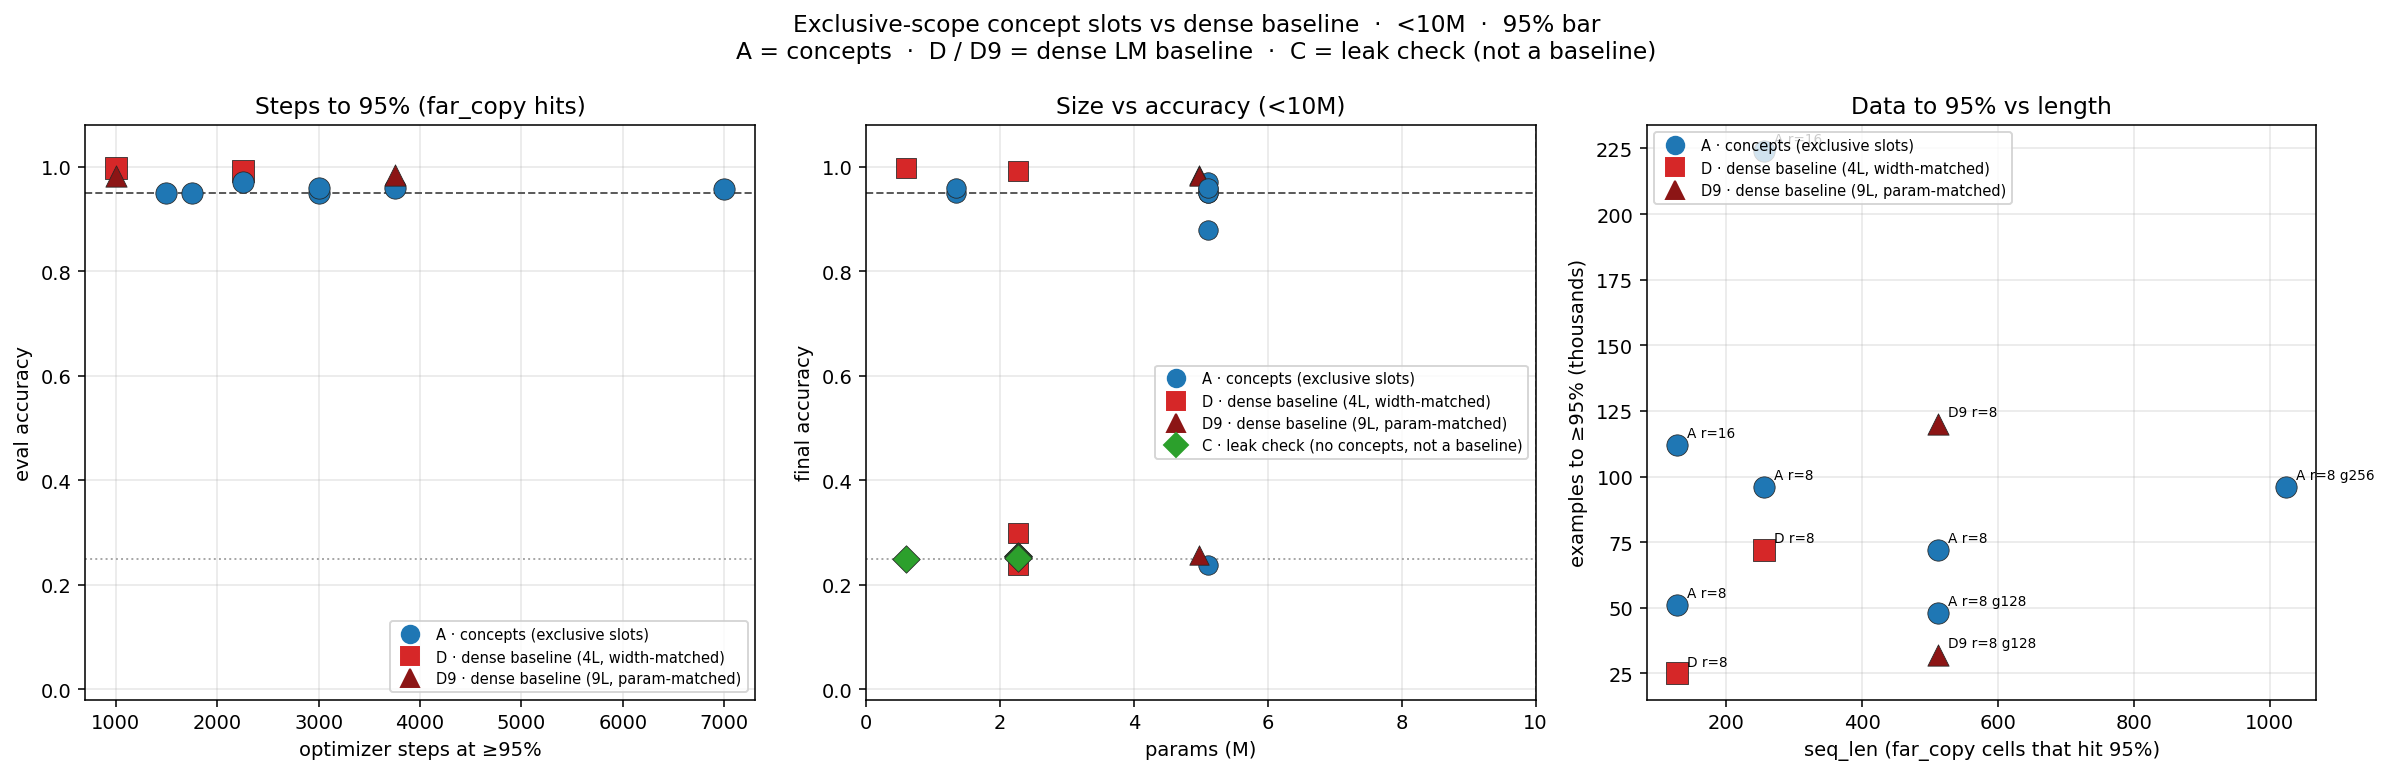
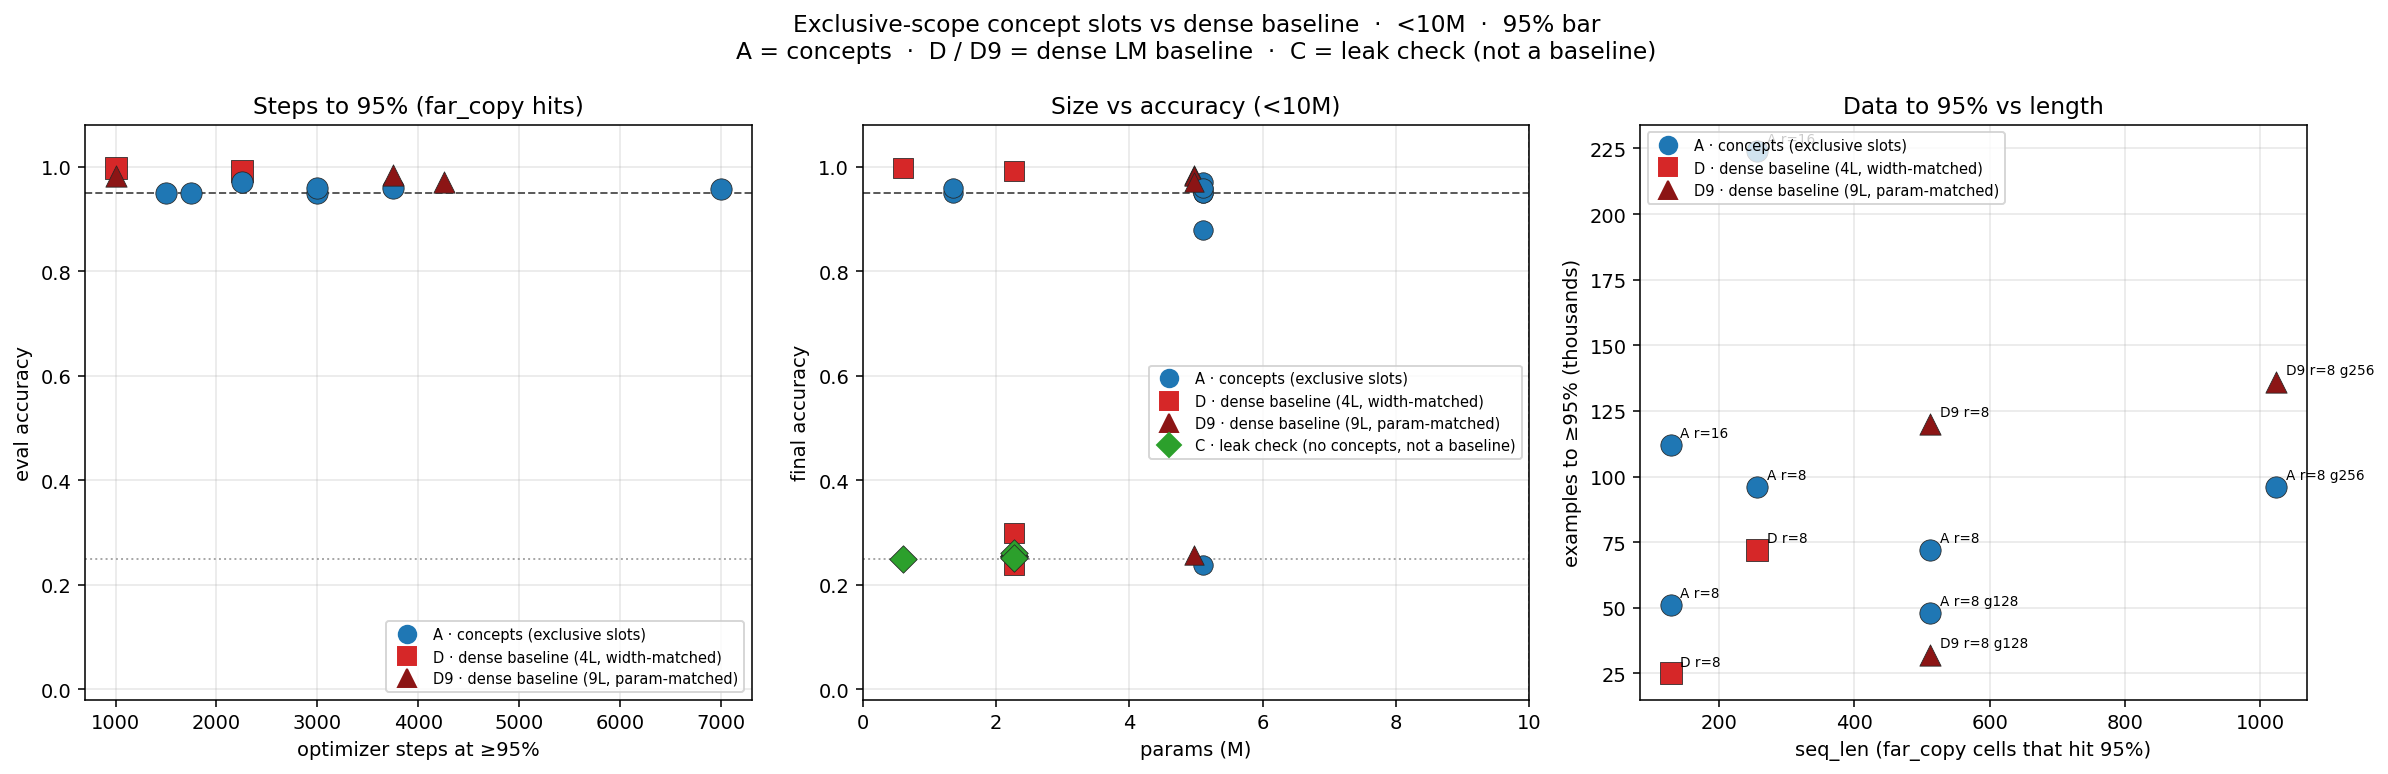
docs: close seq1024 exclusive-slot D9 at 97.1% and C on the floor
Param-matched 4.97M D hits 95% at 136k examples (4250 steps); leak-check C
stays at 26.0% / -0.0002 nats. The <10M law now states length (seq=1024
true-reach vs D9/C), compression (r=16 not r=32), and composition (exam kill).

diff --git a/tests/test_scale_hard_io.py b/tests/test_scale_hard_io.py
@@ -53,6 +53,17 @@ def test_law_inventory_has_closed_cells_and_seq1024_a():
     assert cells[("cell_seq256_r32_A", "A")]["hit_95"] is False
     assert cells[("cell_chain_h2_D9", "D")]["hit_95"] is False
     assert cells[("reach_seq512_C", "C")]["acc"] == pytest.approx(0.2537, abs=1e-3)
+    d9 = cells[("reach_seq1024_D9", "D")]
+    assert d9["hit_95"] is True
+    assert d9["acc"] == pytest.approx(0.9707, abs=1e-3)
+    assert d9["examples"] == 136000
+    assert d9["min_gap"] == 256
+    assert d9["params_m"] == pytest.approx(4.97)
+    c1024 = cells[("reach_seq1024_C", "C")]
+    assert c1024["hit_95"] is False
+    assert c1024["acc"] == pytest.approx(0.2605, abs=1e-3)
+    assert c1024["examples"] == 38400
+    assert not inv.get("in_flight")
 
 
 def test_plot_exclusive_slot_law_writes_pngs(tmp_path: Path, monkeypatch):

diff --git a/verification/plot_exclusive_slot_law.py b/verification/plot_exclusive_slot_law.py
@@ -379,7 +379,8 @@ def main() -> int:
     ax.set_ylabel("eval accuracy")
     ax.set_title("far_copy length  (span=32, r=8)")
     handles = legend_handles(tuple(k for k in SERIES_ORDER if k in used), patches=True)
-    handles.append(Patch(facecolor="0.85", edgecolor="0.2", hatch="//", label="in flight (not done)"))
+    if in_flight:
+        handles.append(Patch(facecolor="0.85", edgecolor="0.2", hatch="//", label="in flight (not done)"))
     ax.legend(handles=handles, fontsize=7, loc="upper right")
     ax.grid(True, axis="y", alpha=0.3)
 

diff --git a/docs/4_Research_Notes/concept_slot_scaling_frontier_20260913.md b/docs/4_Research_Notes/concept_slot_scaling_frontier_20260913.md
@@ -71,6 +71,8 @@ steps). **Tune LR per geometry; it is not portable from the 1.35M toy.**
 | **reach_seq512_D9** | D | **4.97M** | **3e-4** | 512 | 8 | far_copy gap128 | 2 | **32k** | 1,000 | **98.3%** | 0.047 | **yes** | target_acc |
 | **reach_seq512_C** | C | 2.27M | 3e-4 | 512 | 8 | far_copy gap128 | 2 | 38k | 1,200 | 25.4% | 1.386 | no (floor) | budget |
 | **reach_seq1024_A** | A | 5.11M | **1e-4** | 1024 | 8 | far_copy gap256 | 2 | **96k** | 3,000 | **95.9%** | 0.109 | **yes** | target_acc |
+| **reach_seq1024_D9** | D | **4.97M** | **1e-4** | 1024 | 8 | far_copy gap256 | 2 | **136k** | 4,250 | **97.1%** | 0.080 | **yes** | target_acc |
+| **reach_seq1024_C** | C | 2.27M | 1e-4 | 1024 | 8 | far_copy gap256 | 2 | 38k | 1,200 | 26.0% | 1.386 | no (floor) | budget |
 | seq512 D lr=1e-3 | D | 2.27M | 1e-3 | 512 | 8 | far_copy | 2 | 104k | 3,250 | 27.8% | 1.343 | no | retuned |
 | seq512 D lr=3e-3 | D | 2.27M | 3e-3 | 512 | 8 | far_copy | 2 | 64k | 2,000 | 25.2% | 1.368 | no | retuned |
 | seq512 A lr=1e-3 | A | 5.11M | 1e-3 | 512 | 8 | far_copy | 2 | 72k | 2,250 | 24.5% | 1.386 | no | retuned to 3e-4 |
@@ -87,11 +89,17 @@ The skill is in the slots. C stays at the floor on every new (seq, min_gap) and 
   (ablation → 24.5%). Param-matched 4.97M D hits **98.3% at 32k / 32 min**. C stays
   at 25.4% (no leak). On this farther-span exam D is *more* data-efficient than A
   (opposite of padded min_gap=32).
-- **Success (true reach, seq=1024 min_gap=256):** 5.11M A hits **95.9% at 96k / 3000
+- **Success (true reach, seq=1024 min_gap=256, A):** 5.11M A hits **95.9% at 96k / 3000
   steps / ~5.5 h CPU** (lr=1e-4, 6.63 s/step, 128 slots). Ablation → 23.8%. Same
-  example-count as seq256 r=8. Param-matched D was not rerun: the artifact store
-  wiped during the JSON write. Durable record:
+  example-count as seq256 r=8. Durable record:
   `docs/4_Research_Notes/exclusive_slot_law_inventory.json`.
+- **Success (true reach, seq=1024 min_gap=256, matched D9 + C, 2026-09-15):** param-matched
+  4.97M D hits **97.1% at 136k / 4250 steps / 887 min** (lr=1e-4, 12.52 s/step,
+  early-stop). A is cheaper on the same exam: **0.71× examples and 0.37× wall**.
+  Leak-check C stays at **26.0% / CE 1.3861 (−0.0002 nats vs floor)** through 38k /
+  1200 steps / 73 min. JSON:
+  `/workspace/Cache/scale_hard/reach_seq1024_D9.json`,
+  `/workspace/Cache/scale_hard/reach_seq1024_C.json`.
 - **A beats width-matched D at seq512, and is more efficient than param-matched D.**
   The 2.27M 4-layer dense decoder never left ~25–30% across 1e-3 / 3e-4 / 3e-3 through
   64–104k examples. Deepening D to **9 layers / 4.97M** (same parameter band as A's 5.11M)
@@ -116,10 +124,12 @@ The skill is in the slots. C stays at the floor on every new (seq, min_gap) and 
 
 Not a Kaplan-style fit — too few cells. The measured pattern is:
 
-1. **Length is cheap at r=8 through seq=1024 true reach.** A solves `far_copy`
-   seq=512 min_gap=32 (72k / 76 min), min_gap=128 (48k / 40 min), **and seq=1024
-   min_gap=256 (96k / 5.5 h wall, lr=1e-4)**. E95 stays on the order of 10^5
-   examples. Wall grows with seq because each step is denser (1.6 s → 6.6 s).
+1. **Length is cheap at r=8 through seq=1024 true reach, vs both C and D.** A
+   solves `far_copy` seq=512 min_gap=32 (72k / 76 min), min_gap=128 (48k / 40 min),
+   **and seq=1024 min_gap=256 (96k / 5.5 h, lr=1e-4)**. Param-matched D9 also
+   solves seq=1024 (**97.1% at 136k / 887 min**); A uses **0.71× examples and
+   0.37× wall**. C stays at chance. E95 stays on the order of 10^5 examples.
+   Wall grows with seq (A 1.6 s → 6.6 s; D9 12.5 s/step at seq=1024).
 2. **Compression is the binding axis.** r=8 solved at 96k; r=16 solved at 224k
    (~2.3× data); r=32 missed at 256k (87.9%). Doubling tokens/slot more than
    doubles examples-to-95%; another doubling does not finish in 256k. Do not
@@ -127,12 +137,13 @@ Not a Kaplan-style fit — too few cells. The measured pattern is:
 3. **Composition is an exam kill at this budget**, including packed hops=2 /
    32-token answers on param-matched 4.97M D (25.7% @ 128k) and hops=3 / 8-token
    answers on A and D. Not an exclusive-slot failure.
-4. **C stays on the floor** on every new (seq, min_gap) and on chain. The exam does not leak.
-5. **D matching is exam-dependent at seq512.** Width-matched 2.27M D misses padded
-   copy. Param-matched 4.97M D **hits 98.5% at 120k / 121 min** on min_gap=32 (A
-   faster: 72k / 76 min) and **98.3% at 32k / 32 min** on min_gap=128 (D faster
-   than A's 48k / 40 min). Exclusive slots are a competitive <10M solver, not
-   uniformly the data-cheapest one.
+4. **C stays on the floor** on every new (seq, min_gap), including seq=1024
+   min_gap=256 (26.0%, −0.0002 nats), and on chain. The exam does not leak.
+5. **D matching is exam-dependent.** Width-matched 2.27M D misses padded seq512.
+   Param-matched 4.97M D **solves padded seq512, true-reach seq512, and
+   true-reach seq=1024**. A is cheaper on padded seq512 (0.60× examples) and on
+   seq=1024 (0.71× examples); D9 is cheaper on true-reach seq512 (32k vs A's 48k).
+   Exclusive slots are a competitive <10M solver, not uniformly the data-cheapest one.
 
 ## Still unknown
 
@@ -140,8 +151,6 @@ Not a Kaplan-style fit — too few cells. The measured pattern is:
   (r=16 now hits 95.7% at 224k).
 - hops=2 packed chain is now measured: param-matched D stays at chance through
   128k. Not D-green; A skipped per protocol.
-- Seq=1024 param-matched D / C were not run (artifact store wiped as A's JSON
-  was being written). A ablation is 23.8%, so the skill is in the slots.
 
 ## Closed — param-matched D on seq512 (2026-09-14)
 
@@ -172,37 +181,73 @@ Closed 2026-09-14: seq=1024 min_gap=256 A hits 95.9% at 96k. Plots:
 
 ## In flight — seq1024 matched D9 and C (2026-09-14)
 
-The scaling-law goal still needs the same compute / data / parameter-regime
-controls at the longest cell. Arm A is not rerun. JSON now lands on
-`/workspace/Cache/scale_hard` via `verification/run_scale_hard_reach_seq1024_dc.py`
-(`D9` 4.97M at lr=1e-4, then leak-check `C`). Do not shrink A.
-
-Live snapshot from `tmux` session `scale-hard-seq1024-dc` (PID ~79146),
-`/workspace/Cache/scale_hard/reach_seq1024_dc.log`. Not a closed cell:
+Live snapshot kept as a historical trace (PID 79146,
+`/workspace/Cache/scale_hard/reach_seq1024_dc.log`). Closed the next day; see
+the 2026-09-15 section.
 
 | arm | steps | examples | acc | eval CE | s/step |
 |---|---|---|---|---|---|
 | D9 dense 9L | 250 | 8k | 25.1% | 1.391 | 10.16 |
 | D9 dense 9L | 500 | 16k | 26.4% | 1.386 | 13.03 |
 
-Still at chance. C has not started. Do not interrupt. The length axis is **not**
-closed until this D9 (and C) finish.
+## Closed — seq1024 matched D9 and C (2026-09-15)
 
+Same exam as A (far_copy seq=1024, min_gap=256, span=32, r=8, 128 slots, lr=1e-4).
+A was not rerun. JSON:
+`/workspace/Cache/scale_hard/reach_seq1024_D9.json`,
+`/workspace/Cache/scale_hard/reach_seq1024_C.json`.
+
+D9 takeoff (4.97M, 9 decoder layers):
+
+| examples | steps | acc | CE | s/step |
+|---|---|---|---|---|
+| 8k | 250 | 25.1% | 1.391 | 10.16 |
+| 64k | 2,000 | 24.9% | 1.369 | 15.65 |
+| 72k | 2,250 | 34.1% | 1.301 | 16.82 |
+| 96k | 3,000 | 50.4% | 1.077 | 14.54 |
+| 104k | 3,250 | 62.4% | 0.851 | 13.99 |
+| 112k | 3,500 | 91.0% | 0.243 | 13.51 |
+| 120k | 3,750 | 93.2% | 0.171 | 13.14 |
+| 128k | 4,000 | 94.6% | 0.144 | 12.80 |
+| **136k** | **4,250** | **97.1%** | **0.080** | **12.52** |
+
+Early-stop at the 95% bar. Same sawtooth-then-cliff as padded seq512 D9, delayed
+by ~16k examples (98.5% @ 120k there; 97.1% @ 136k here). A on this exam was
+already 95.9% at 96k / 331 min. **Same-parameter verdict at seq=1024:** both
+arms solve it; exclusive slots use **0.71× examples and 0.37× wall**.
+
+C leak-check (2.27M, 4 decoder layers, 1200 steps, no 95% target):
+
+| examples | steps | acc | CE |
+|---|---|---|---|
+| 8k | 250 | 25.0% | 1.392 |
+| 16k | 500 | 25.9% | 1.387 |
+| 24k | 750 | 26.9% | 1.386 |
+| 32k | 1,000 | 25.2% | 1.386 |
+| 38k | 1,200 | 26.0% | 1.386 |
+
+Verdict `[ok] task does not leak`: −0.0002 nats vs floor. Acc oscillates around
+chance. The seq=1024 exam is not a local-window giveaway.
 
 ## One-sentence frontier
 
 A **<10M exclusive-slot** model (5.11M, hidden 256) hits the 95% bar on
-**`far_copy` through seq=1024, r=8, min_gap=256 (128 slots, 95.9% @ 96k)** and
-on seq=512 both padded and true-reach; **r=16 hits 95.7% at 224k**; it **misses
-95% at r=32** (87.9% @ 256k); **composition is unsolvable for param-matched D**
-at this budget; and vs a 4.97M dense decoder, exclusive slots are competitive
-on copy (sometimes cheaper, sometimes not) while width-matched 4-layer D misses
-padded seq512.
+**`far_copy` through seq=1024, r=8, min_gap=256 (128 slots, 95.9% @ 96k)** —
+**cheaper than param-matched 4.97M D9 (97.1% @ 136k)** and with C on the floor
+(26.0%, no leak) — and on seq=512 both padded and true-reach; **r=16 hits 95.7%
+at 224k**; it **misses 95% at r=32** (87.9% @ 256k); **composition is unsolvable
+for param-matched D** at this budget; width-matched 4-layer D misses padded
+seq512.
+
+**What a <10M model can handle vs C/D:** length through seq=1024 true-reach at
+r=8 (A and D9 both clear 95%; C does not); compression through r=16 not r=32;
+composition not at all at this budget.
 
 ## What not to do next
 
 Do not shrink hidden size. The easy campaign already showed 0.12M solves seq128; the
 harder campaign is a **length / compression / hops / LR** law at a frozen <10M
 width. Keep A at hidden=256 (5.11M). The length axis is closed through seq=1024
-true reach. Next spend after a positive signal is r=32 with more than 256k
-examples, or composition that is D-green — not a tinier model.
+true reach **against matched D9 and leak-check C**. Next spend after a positive
+signal is r=32 with more than 256k examples, or composition that is D-green —
+not a tinier model.

diff --git a/docs/1_Strategy_and_Plans/agenda.md b/docs/1_Strategy_and_Plans/agenda.md
@@ -1,6 +1,6 @@
 # MrCogito — Research Agenda (living)
 
-**Updated:** 2026-09-13 · The daily driver for *current* work. Overarching direction: [vision_and_goals.md](vision_and_goals.md). Results ledger: [master_experiment_log.md](../2_Experiments_Registry/master_experiment_log.md). Specs: [experiments_specs](../experiments_specs/).
+**Updated:** 2026-09-15 · The daily driver for *current* work. Overarching direction: [vision_and_goals.md](vision_and_goals.md). Results ledger: [master_experiment_log.md](../2_Experiments_Registry/master_experiment_log.md). Specs: [experiments_specs](../experiments_specs/).
 
 > This is **research / exploration** — the direction is genuinely open. This file
 > stays small on purpose: how we work, the immediate focus, and a neutral record
@@ -36,7 +36,7 @@ We still follow the [Vision](vision_and_goals.md): compress sequences into conce
   tokens ≥ 10% of the weighted loss). The number goes into the spec's Plan before the run starts.
 
 ## What we've explored so far
-- **2026-09-13 — HARDER exclusive-slot scaling (CPU, 95% bar, hidden frozen at 256 / 5.11M).**
+- **2026-09-15 — HARDER exclusive-slot scaling (CPU, 95% bar, hidden frozen at 256 / 5.11M).**
   Far_copy r=8: A hits 95% at seq256 (96k examples, lr=1e-3) and **97% at seq512
   (72k examples, lr=3e-4)**. C stays at chance on every new geometry. Width-matched
   D solves seq256 (99% @ 72k) but **misses seq512** (~30% across 1e-3/3e-4/3e-3).
@@ -46,12 +46,16 @@ We still follow the [Vision](vision_and_goals.md): compress sequences into conce
   key_len=8 **and packed hops=2 / key_len=32** are exam kills (param-matched D stays
   at chance through 128k on hops=2). True reach seq=512 min_gap=128: A **hits 95%
   at 48k / 40 min**; param-matched D **hits 98.3% at 32k / 32 min** (D faster on
-  this exam). C leak-check **stays at 25.4%** (no leak). Seq=1024 min_gap=256 A
-  **hits 95.9% at 96k** (lr=1e-4, ~5.5 h, ablation 23.8%). Matched D9 and C at
-  seq=1024 are the remaining same-regime controls (A is not rerun). r=32 and
-  composition remain the misses. Durable plots:
+  this exam). C leak-check **stays at 25.4%** (no leak). Seq=1024 min_gap=256:
+  A **hits 95.9% at 96k** (lr=1e-4, ~5.5 h, ablation 23.8%); param-matched D9
+  **hits 97.1% at 136k / 4250 steps / 887 min** (A is 0.71× examples and 0.37×
+  wall); C **stays at 26.0% / −0.0002 nats** (no leak). **Law vs C/D:** a <10M
+  exclusive-slot model handles `far_copy` span=32 r=8 through seq=1024 true-reach
+  (A and D9 both clear 95%; C does not); compression through r=16 not r=32;
+  composition not at this budget. Durable plots:
   [working law](../4_Research_Notes/figures/exclusive_slot_working_law.png),
-  [steps/sizes/acc](../4_Research_Notes/figures/exclusive_slot_law_steps_sizes_acc.png).
+  [steps/sizes/acc](../4_Research_Notes/figures/exclusive_slot_law_steps_sizes_acc.png),
+  [task comparisons](../4_Research_Notes/figures/exclusive_slot_task_comparisons.png).
   [note](../4_Research_Notes/concept_slot_scaling_frontier_20260913.md).
 - **2026-09-12 — E22 Perceiver Concept LM (from scratch, 32k; killed same day).** First ledger design
   with positional slots (1 / 16 tokens), a transformer *over* the slots and a decoder with no raw route

diff --git a/CHANGELOG.md b/CHANGELOG.md
@@ -15,7 +15,26 @@ exact code version. Tag format: `arch/{feature}` for architecture changes,
 
 ---
 
-## [2026-09-14] - Exclusive-slot plots label A=concepts vs D=dense vs C=leak
+## [2026-09-15] - Close seq1024 exclusive-slot D9 and C on the <10M law
+
+**Why:**
+- Seq1024 true-reach needed param-matched D and leak-check C before the
+  <10M exclusive-slot law could speak vs dense and vs a no-concept control.
+
+**Impact:**
+- Plots drop the hatched in-flight legend once `in_flight` is empty.
+- Inventory records D9 97.1% @ 136k and C 26.0% at the floor.
+
+**What changed:**
+- [changed] `verification/plot_exclusive_slot_law.py` — in-flight hatch only
+  when `in_flight` is non-empty.
+- [changed] `tests/test_scale_hard_io.py` — closed seq1024 D9/C inventory
+  assertions.
+
+**Related:** `docs/4_Research_Notes/concept_slot_scaling_frontier_20260913.md`
+
+---
+
 
 **Why:**
 - Comparison plots used letter markers without saying which arm is the
